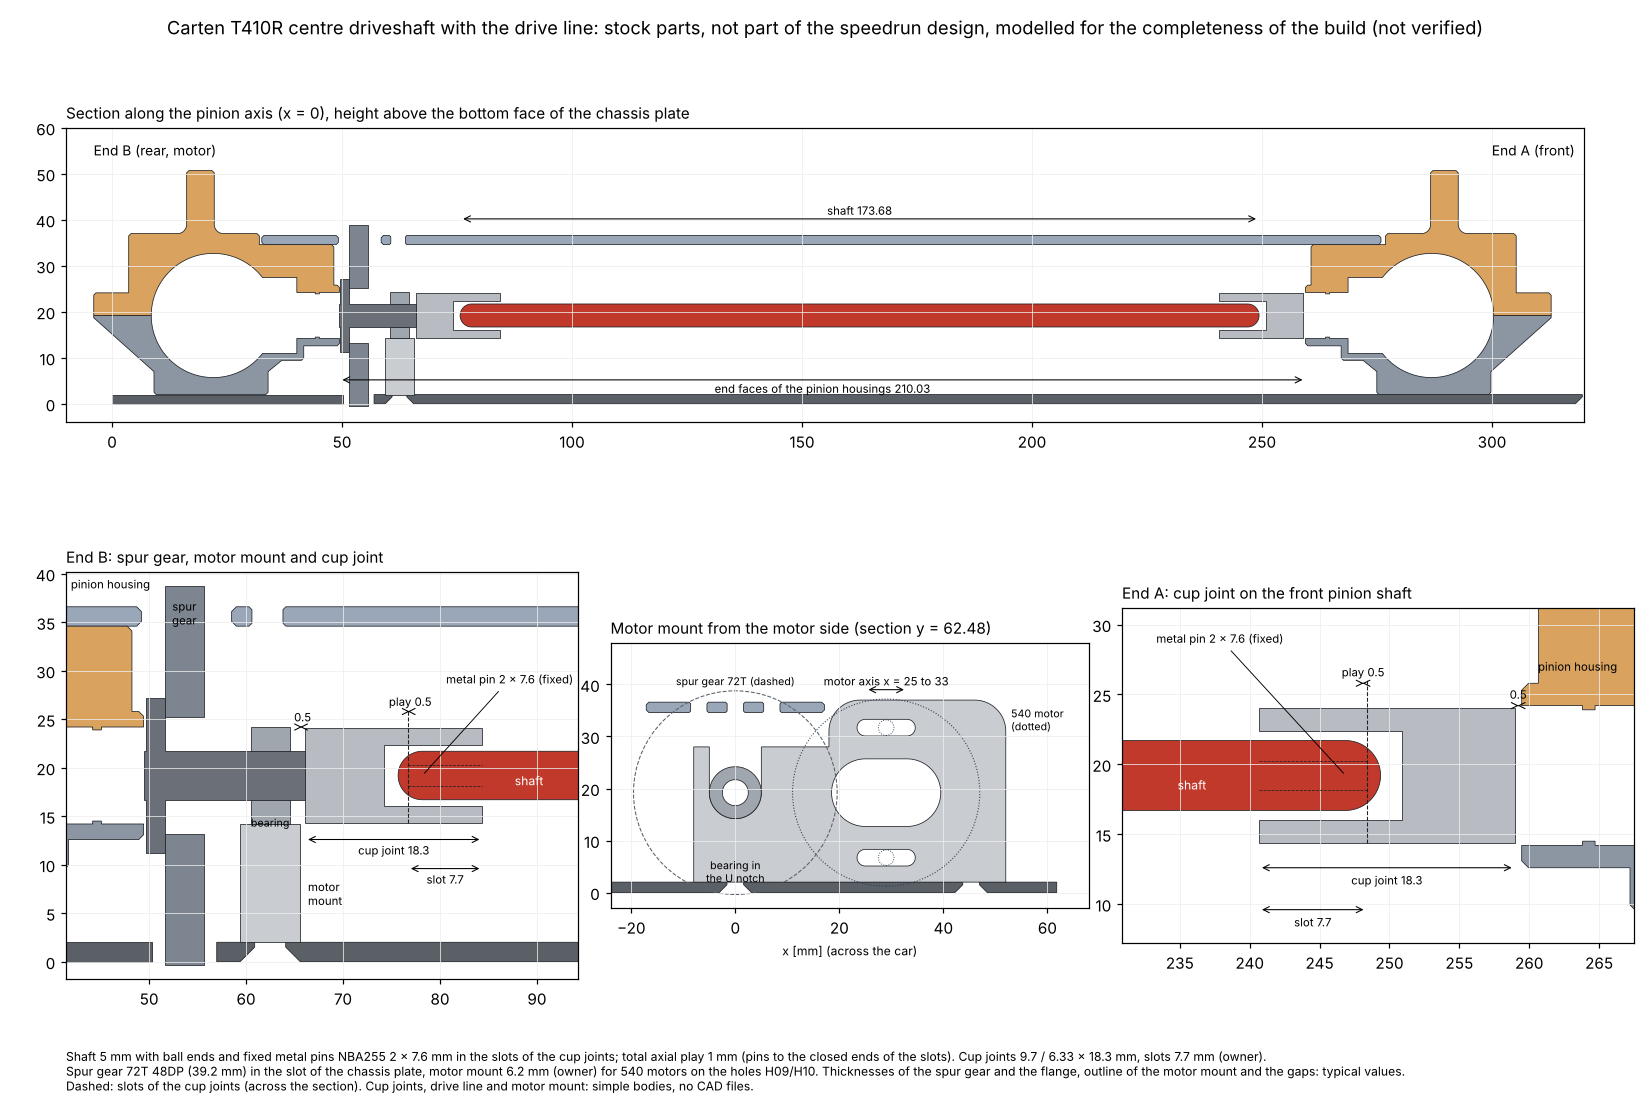
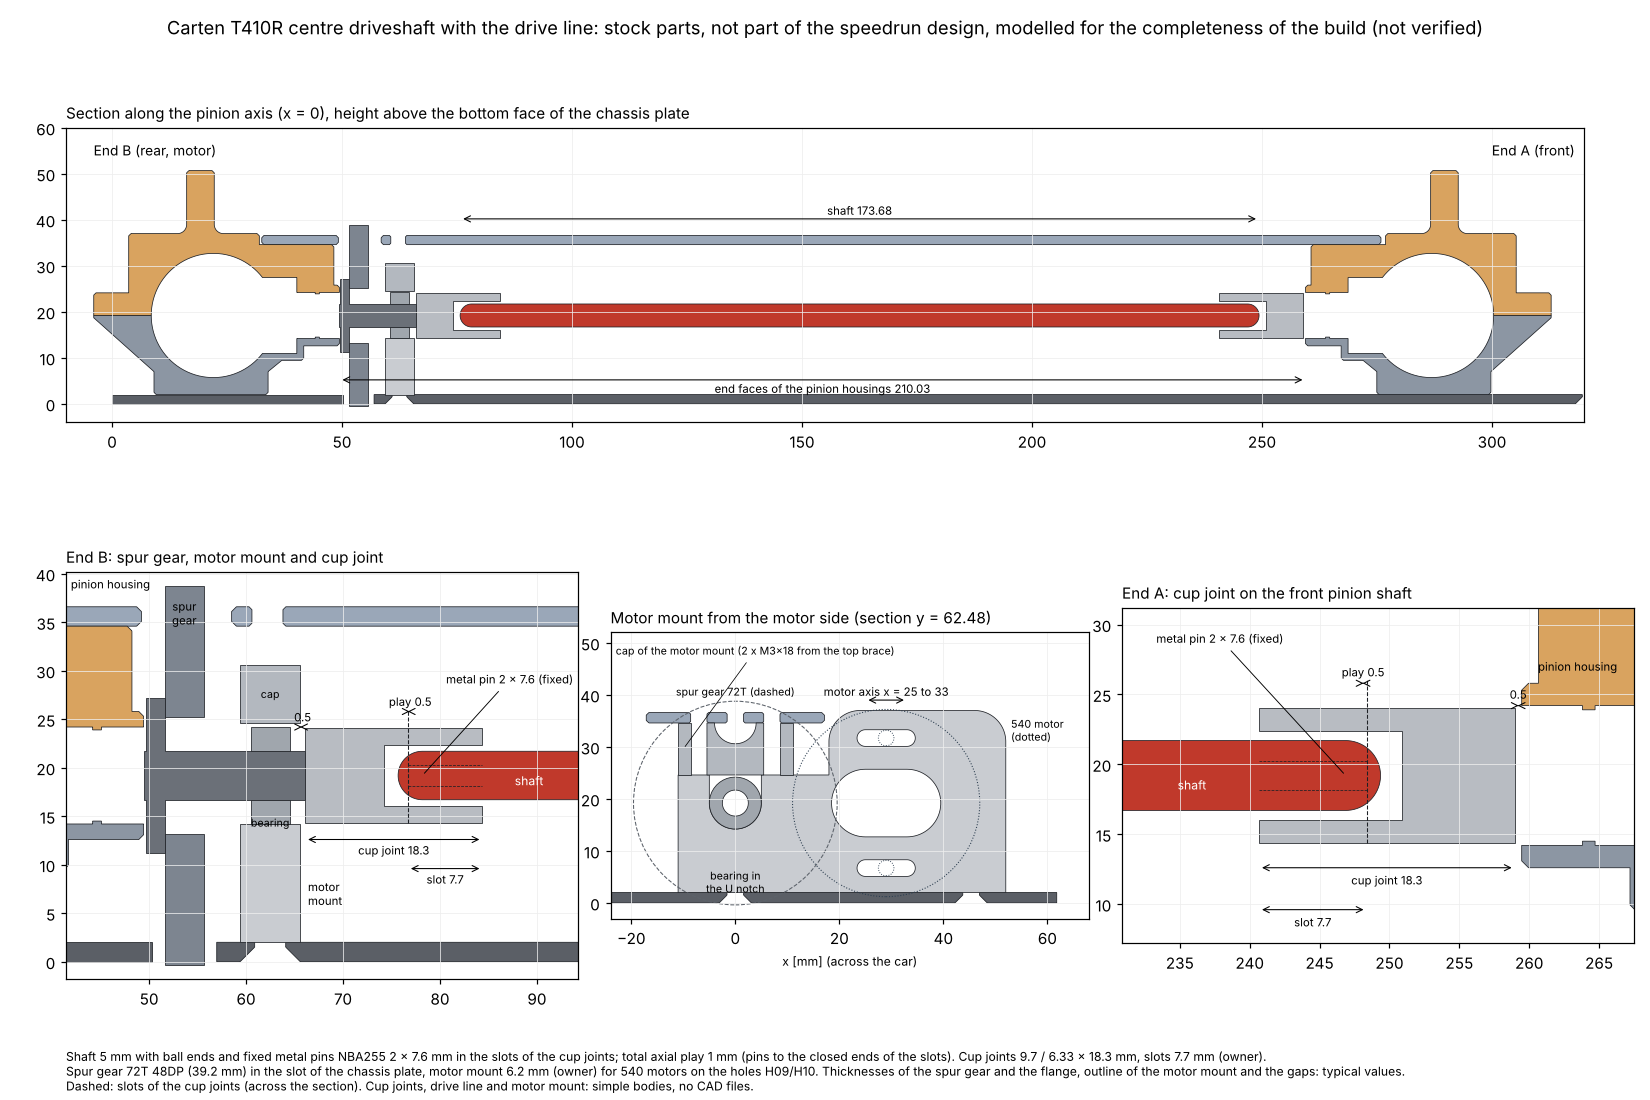
feat: add the cap of the motor mount between the motor mount and the top brace
- Second part of NBA201 (manual step 25 and parts list): block on the low
  part of the motor mount, from 24.6 mm up to the top brace (34.6 mm), above
  the bearing NBA298, with a semicircular notch in its top face and 2 through
  holes below the holes B10/B11 of the top brace (x = +-7.02 mm). 2 screws
  M3x18 from the top brace through the cap into the motor mount fix the
  motor mount to the top brace.
- Height 10 mm derived from the screws M3x18; the low part of the motor
  mount now ends at 24.6 mm and reaches to x = -11 mm.
- Picture only, no CAD file. Checks: no overlap; the cap touches the top
  brace. Drawing (motor mount view), assembly legend and readmes updated.

Claude-Session: https://claude.ai/code/session_012MJxxEEjoVgHx6jU6rcxWi

diff --git a/scripts/cad/generate_driveshaft.py b/scripts/cad/generate_driveshaft.py
@@ -36,7 +36,7 @@ import numpy as np
 import cadquery as cq
 
 sys.path.insert(0, os.path.dirname(os.path.abspath(__file__)))
-from generate_bulkhead_lower import box, bulkhead_lower, cyl_x, cyl_y, load_params  # noqa: E402
+from generate_bulkhead_lower import box, bulkhead_lower, cyl_x, cyl_y, cyl_z, load_params  # noqa: E402
 from generate_bulkhead_upper import bulkhead_upper  # noqa: E402
 from generate_top_brace_speedrun import BULKHEAD_Y, GEOM as BRACE_GEOM, brace_offset, brace_solid  # noqa: E402
 
@@ -118,8 +118,10 @@ def rear_drive_line(p, lay):
     yb = p["mount_y"] - b / 2
     bearing = cyl_y(dd / 2, yb, yb + b, 0, z).cut(cyl_y(d / 2, yb - 1, yb + b + 1, 0, z))
     mount = motor_mount_solid(p, lay)
+    cap = motor_mount_cap_solid(p, lay)
     return [("rear pinion shaft with flange", "drive", shaft.clean()), ("spur gear", "drive", spur.clean()),
-            ("bearing NBA298 in the motor mount", "drive", bearing.clean()), ("motor mount", "mount", mount.clean())]
+            ("bearing NBA298 in the motor mount", "drive", bearing.clean()), ("motor mount", "mount", mount.clean()),
+            ("cap of the motor mount", "mount", cap)]
 
 
 def motor_mount_solid(p, lay):
@@ -143,6 +145,20 @@ def motor_mount_solid(p, lay):
     hs = p["motor_screw_spacing"] / 2
     for zc, w in ((z, p["motor_shaft_slot_w"]), (z + hs, p["motor_screw_slot_w"]), (z - hs, p["motor_screw_slot_w"])):
         s = s.cut(long_hole(zc, w))
+    return s.clean()
+
+
+def motor_mount_cap_solid(p, lay):
+    """Cap of the motor mount (second part of NBA201, manual step 25), chassis plate coordinates,
+    picture only: block between the low part of the motor mount and the top brace, with a
+    semicircular notch along y in its top face and two through holes for the screws M3x18 from the
+    top brace into the motor mount."""
+    m0, m1 = lay["mount"]
+    z0 = p["mount_low_top"]
+    z1, w = z0 + p["cap_h"], p["cap_w"] / 2
+    s = box(-w, w, m0, m1, z0, z1).cut(cyl_y(p["cap_notch_r"], m0 - 1, m1 + 1, 0, z1))
+    for x, y in p["cap_screws"]:
+        s = s.cut(cyl_z(p["cap_hole_d"] / 2, z0 - 1, z1 + 1, x, y))
     return s.clean()
 
 
@@ -273,6 +289,8 @@ def drawing(path, p, lay, items):
         if sign > 0:
             m0, m1 = lay["mount"]
             ax2.text(m1 + 0.8, 7.0, "motor\nmount", ha="left", va="center", fontsize=7.5)
+            ax2.text(p["mount_y"], p["mount_low_top"] + (p["cap_h"] - p["cap_notch_r"]) / 2, "cap", ha="center",
+                     va="center", fontsize=7)
             ax2.text(sum(lay["spur"]) / 2, z + lay["spur_od"] / 2 - 4, "spur\ngear", ha="center", fontsize=7.5)
             ax2.text(p["mount_y"], z - 4.2, "bearing", ha="center", va="top", fontsize=7)
             dim(ax2, m1, bk, z + 5.0, f"{p['rear_cup_gap']:g}")
@@ -303,8 +321,10 @@ def drawing(path, p, lay, items):
     ax3.text(0, z + lay["spur_od"] / 2 + 0.6, f"spur gear {p['spur_teeth']:g}T (dashed)", ha="center", va="bottom",
              fontsize=7)
     ax3.text(0, 4.0, "bearing in\nthe U notch", ha="center", va="center", fontsize=7)
+    ax3.annotate("cap of the motor mount (2 x M3x18 from the top brace)", (-p["cap_w"] / 2 + 1, p["mount_low_top"] + 5),
+                 (-23, 48.5), fontsize=7, ha="left", va="center", arrowprops=dict(arrowstyle="-", lw=0.5))
     ax3.set_xlim(-24, 68)
-    ax3.set_ylim(-3, 48)
+    ax3.set_ylim(-3, 52)
     ax3.set_aspect("equal")
     ax3.grid(True, color="#eeeeee", lw=0.5)
     ax3.set_title("Motor mount from the motor side (section y = 62.48)", fontsize=10, loc="left")
@@ -350,7 +370,8 @@ def main():
         cq.Vector(0, c, PLATE_T + lp["axis_z"] + up["deck_h"]))
     items = [(plate, "#5b5f66"), (brace, "#9aa7b8")]
     items += [(b, "#8c96a3" if k % 2 == 0 else "#d9a35f") for k, b in enumerate(bulkheads)]
-    items += [(parts["motor mount"], "#c9ccd1"), (parts["rear pinion shaft with flange"], "#6b7078"),
+    items += [(parts["motor mount"], "#c9ccd1"), (parts["cap of the motor mount"], "#b3b8bf"),
+              (parts["rear pinion shaft with flange"], "#6b7078"),
               (parts["spur gear"], "#7d8590"), (parts["bearing NBA298 in the motor mount"], "#a0a6ad"),
               (parts["cup joint End B"], "#b8bcc2"), (parts["cup joint End A"], "#b8bcc2"),
               (parts["centre driveshaft"], "#c0392b")]

diff --git a/scripts/cad/generate_speedrun_assembly.py b/scripts/cad/generate_speedrun_assembly.py
@@ -13,7 +13,7 @@ Parts:
 * stock centre driveshaft with the fixed metal pins (not part of the speedrun design, modelled for
   the completeness of the build, not in the mass total)
 * picture only (simple bodies, not in the STEP file): cup joints, rear pinion shaft with the spur
-  gear and the bearing, motor mount, diff outdrives
+  gear and the bearing, motor mount with its cap, diff outdrives
 
 Outputs:
 * cad/assembly/speedrun_chassis_T410R.step: assembly (STEP AP214, one solid per part)
@@ -66,7 +66,7 @@ MATERIALS = {"plate": ("Speedrun chassis plate (wide, longer motor window)", {"6
              "shaft": ("Stock centre driveshaft with fixed pins (not part of the speedrun design)", {}),
              "cup": ("Cup joints and diff outdrives (picture only)", {}),
              "drive": ("Rear pinion shaft with spur gear and bearing (picture only)", {}),
-             "mount": ("Motor mount (picture only)", {})}
+             "mount": ("Motor mount with cap (picture only)", {})}
 
 
 def build():

diff --git a/cad/readme.md b/cad/readme.md
@@ -110,7 +110,7 @@ Stock parts of the Carten T410R, modelled for the completeness of the build (not
 
 ### Assembly file
 * `assembly/speedrun_chassis_T410R.step`: assembly of the 8 parts of the speedrun chassis and the 5 stock parts (4 pivot blocks, centre driveshaft) in the coordinate system of the chassis plate (STEP AP214, one solid per part).
-* The assembly also contains the 4 stock pivot blocks of the wishbones (see [pivot blocks](#pivot-blocks-stock-parts-not-part-of-the-speedrun-design)) and the stock centre driveshaft (see [centre driveshaft](#centre-driveshaft-stock-parts-not-part-of-the-speedrun-design)). These parts are not part of the speedrun design, are modelled for the completeness of the build and are not in the mass total. The picture also shows the cup joints, the rear pinion shaft with the spur gear and the bearing, the motor mount and the diff outdrives as simple bodies; they are not in the STEP file.
+* The assembly also contains the 4 stock pivot blocks of the wishbones (see [pivot blocks](#pivot-blocks-stock-parts-not-part-of-the-speedrun-design)) and the stock centre driveshaft (see [centre driveshaft](#centre-driveshaft-stock-parts-not-part-of-the-speedrun-design)). These parts are not part of the speedrun design, are modelled for the completeness of the build and are not in the mass total. The picture also shows the cup joints, the rear pinion shaft with the spur gear and the bearing, the motor mount with its cap and the diff outdrives as simple bodies; they are not in the STEP file.
 * The interference check of all pairs of parts gives 0 mm³, except 0.82 mm³ between the lower bulkhead at End B and the long pivot block (see [position and fit on the speedrun chassis](#position-and-fit-on-the-speedrun-chassis)).
 * The assembly file and the image are generated with the script `generate_speedrun_assembly.py` (see [scripts](#scripts)) from the files of the parts.
 * The image shows an overall view, a side view, a top view and close-ups of both ends: bulkheads, shock tower and end of the top brace, seen from the outer end.
@@ -691,8 +691,8 @@ All files are stored in the directory `/stock_parts/pivot_block`. They are gener
 
 ## Centre driveshaft (stock parts, not part of the speedrun design)
 * **Author:** [@kleinnconrad](https://github.com/kleinnconrad)
-* **Description:** Model of the centre driveshaft of the Carten T410R (NHA413) between the cup joints of the two pinion shafts. The shaft has a ball end at each end with a metal pin (NBA255, 2.0 x 7.6 mm), which is fixed on the shaft. The pins run in the slots of the cup joints, so the shaft turns with the cup joints. In the centred position, each pin has 0.5 mm to the closed end of its slot, so the shaft can move a little back and forth. At End A, the cup joint sits on the front pinion shaft beside the bulkhead. At End B (motor), the rear pinion shaft NBA205 runs from the pinion in the bulkhead through a flange with the spur gear and the bearing NBA298 in the motor mount NBA201 (manual steps 5, 10 and 12); the cup joint sits on its end beyond the motor mount. The shaft is a stock part: it is not part of the speedrun design and is not manufactured in this project. It is modelled for the completeness of the build. The cup joints, the rear pinion shaft with the spur gear and the bearing, the motor mount and the diff outdrives are shown as simple bodies in the assembly picture only; they are not modelled as CAD files.
-* **Status:** Not verified. Not part of the speedrun design (stock part). The cup joints, the thickness of the motor mount and the spur gear (72T 48DP) are given by the owner, the positions of the motor mount and the spur gear are derived from the chassis plate, the outline of the motor mount follows the manual (step 10). The thicknesses of the spur gear and the flange and the gaps are typical values (see [open points of the centre driveshaft](#open-points-of-the-centre-driveshaft)).
+* **Description:** Model of the centre driveshaft of the Carten T410R (NHA413) between the cup joints of the two pinion shafts. The shaft has a ball end at each end with a metal pin (NBA255, 2.0 x 7.6 mm), which is fixed on the shaft. The pins run in the slots of the cup joints, so the shaft turns with the cup joints. In the centred position, each pin has 0.5 mm to the closed end of its slot, so the shaft can move a little back and forth. At End A, the cup joint sits on the front pinion shaft beside the bulkhead. At End B (motor), the rear pinion shaft NBA205 runs from the pinion in the bulkhead through a flange with the spur gear and the bearing NBA298 in the motor mount NBA201 (manual steps 5, 10 and 12); the cup joint sits on its end beyond the motor mount. The shaft is a stock part: it is not part of the speedrun design and is not manufactured in this project. It is modelled for the completeness of the build. The cup joints, the rear pinion shaft with the spur gear and the bearing, the motor mount with its cap and the diff outdrives are shown as simple bodies in the assembly picture only; they are not modelled as CAD files.
+* **Status:** Not verified. Not part of the speedrun design (stock part). The cup joints, the thickness of the motor mount and the spur gear (72T 48DP) are given by the owner, the positions of the motor mount and the spur gear are derived from the chassis plate, the outline of the motor mount and its cap follow the manual (steps 10 and 25). The thicknesses of the spur gear and the flange and the gaps are typical values (see [open points of the centre driveshaft](#open-points-of-the-centre-driveshaft)).
 
 ![Centre driveshaft with the drive line and the motor mount](../photos/cad_driveshaft_drawing.png)
 
@@ -706,7 +706,8 @@ Positions y along the car on the chassis plate (End B at y = 0).
 | Cup joints NBA255 (picture only) | 9.7 mm outer and 6.33 mm inner diameter, 18.3 mm long, 2 slots 7.7 mm long from the open end (2.1 mm wide); bore 10.2 mm deep | Owner (bore depth: slot + 2.5 mm, estimate) |
 | Cup joint End A | From y = 258.96 to 240.66 mm (0.5 mm from the end face of the pinion housing) | Typical value (gap) |
 | Spur gear (picture only) | Standard 72T 48DP, 39.16 mm outer diameter, 4.0 mm thick, y = 51.63 to 55.63 mm, in the slot of the chassis plate below the pinion axis (y = 50.28 to 56.97 mm); it reaches 0.38 mm below the bottom face of the chassis plate. Flange of the rear pinion shaft 16 x 2 mm on the bulkhead side | Owner (72T 48DP), chassis plate (position), typical values (thicknesses) |
-| Motor mount NBA201 for 540 motors (picture only) | Plate 6.2 mm thick, y = 59.38 to 65.58 mm, on the holes H09 and H10 (y = 62.48 mm); the motor window starts at y = 65.63 mm. Low part (x = -8 to 18 mm, 28 mm high) with a U-shaped notch, open to the top, for the bearing NBA298 5 x 10 x 4 mm at the pinion axis. Tall part (x = 18 to 52 mm, 37 mm high, top corners R6) beside the end of the top brace, with three long holes along x: motor shaft (13 mm wide, at the height of the pinion axis), motor screws M3 (3.2 mm wide, 12.5 mm above and below; 540 motors: screws 25 mm apart). Motor axis x = 25 to 33 mm: centre distance 27.0 to 31.0 mm for the 72T 48DP spur gear and motor pinions of 30 to 45 teeth, plus 2 mm | Owner (thickness, 540 motors), chassis plate (position), manual step 10 (shape), derived (long holes), typical values (outline) |
+| Motor mount NBA201 for 540 motors (picture only) | Plate 6.2 mm thick, y = 59.38 to 65.58 mm, on the holes H09 and H10 (y = 62.48 mm); the motor window starts at y = 65.63 mm. Low part (x = -11 to 18 mm, 24.6 mm high) with a U-shaped notch, open to the top, for the bearing NBA298 5 x 10 x 4 mm at the pinion axis. Tall part (x = 18 to 52 mm, 37 mm high, top corners R6) beside the end of the top brace, with three long holes along x: motor shaft (13 mm wide, at the height of the pinion axis), motor screws M3 (3.2 mm wide, 12.5 mm above and below; 540 motors: screws 25 mm apart). Motor axis x = 25 to 33 mm: centre distance 27.0 to 31.0 mm for the 72T 48DP spur gear and motor pinions of 30 to 45 teeth, plus 2 mm | Owner (thickness, 540 motors), chassis plate (position), manual step 10 (shape), derived (long holes), typical values (outline) |
+| Cap of the motor mount (second part of NBA201, picture only) | Block 22 x 6.2 x 10 mm on the low part of the motor mount, from 24.6 mm up to the top brace (34.6 mm), above the bearing; semicircular notch R4 along y in its top face below the hole B09 of the top brace; 2 through holes 3.2 mm below the holes B10 and B11 of the top brace (x = +-7.02 mm, y = 62.15 mm). 2 screws M3x18 from the top brace through the cap into the motor mount fix the motor mount to the top brace; set screw M3x3 in the cap (manual step 25) | Manual (steps 25, parts list), top brace (holes), derived (height from the screws M3x18: 18 - 2.0 brace - approx. 6 thread), typical values (width, notch) |
 | Cup joint End B | From y = 66.08 to 84.38 mm (0.5 mm beyond the motor mount, on the end of the rear pinion shaft) | Typical value (gap) |
 | Shaft | 5.0 mm, ball ends with a radius of 2.5 mm (radial clearance 0.665 mm in the cup joints) | Typical value |
 | Metal pins | 2.0 x 7.6 mm (NBA255), fixed on the shaft at the centres of the ball ends, part of the model of the shaft | Manual (step 5) |
@@ -722,12 +723,12 @@ Results of `generate_driveshaft.py`:
 |:---|:---|
 | Shaft in the cup joints | 0 mm³ overlap; pins 0.05 mm per side in the slots, pin ends 1.05 mm inside the cup joints |
 | Ends of the shaft | 1.50 mm to the bottoms of the bores (space for the O-rings) |
-| Shaft, cup joints, rear drive line, motor mount and diff outdrives with the bulkheads, the chassis plate and the top brace | 0 mm³ overlap; the spur gear runs through the slot of the chassis plate and below the obround of the top brace, the tall part of the motor mount lies 0.76 mm beside the end of the top brace |
+| Shaft, cup joints, rear drive line, motor mount and diff outdrives with the bulkheads, the chassis plate and the top brace | 0 mm³ overlap; the spur gear runs through the slot of the chassis plate and below the obround of the top brace, the tall part of the motor mount lies 0.76 mm beside the end of the top brace, the cap of the motor mount touches the top brace |
 
 * Not modelled: the motor, the front pinion shaft between the bearing and the cup joint, the O-rings NBA255 5.8 x 9.6 x 1.9 mm (see `specs/mechanics/carten_t410r/drivetrain/spec_driveshaft_and_joints.yaml`).
 
 ### Open points of the centre driveshaft
-* Not measured: thicknesses of the spur gear (4.0 mm) and the flange (2.0 mm), the gaps between the motor mount or the pinion housing and the cup joints (0.5 mm), depth of the bore of the cup joints, outline of the motor mount (heights, step, long holes). The length of the shaft follows from these values (173.68 mm); it is to be checked against the real NHA413.
+* Not measured: thicknesses of the spur gear (4.0 mm) and the flange (2.0 mm), the gaps between the motor mount or the pinion housing and the cup joints (0.5 mm), depth of the bore of the cup joints, outline of the motor mount (heights, step, long holes) and of its cap (width, notch). The length of the shaft follows from these values (173.68 mm); it is to be checked against the real NHA413.
 * Spur gear: the specifications (`spec_spur_gear.yaml`, `spec_gearing.yaml`) and the setup sheet list a 68T spur gear; the model uses the standard 72T 48DP spur gear of the owner.
 
 ### Files of the centre driveshaft

diff --git a/readme.md b/readme.md
@@ -51,7 +51,7 @@ The speedrun chassis is designed in this project for speeds over 100 km/h. It co
 * Laser cutting: the top brace (2 mm) and the shock towers (3 mm) are flat plates with plain holes, so that they can be laser cut from aluminium or another material of choice (for example carbon). The outline and the holes are taken from the DXF files. The edge and hole chamfers and the relief on the back face of the shock towers (clearance to the root radius of the wall of the upper bulkhead) are a second machining step.
 * Simple design: a further goal is a simplified design of the bulkheads, the shock towers and the top brace with flat faces, straight edges and radii.
 * Chassis plate: apart from the material, the speedrun chassis plate is designed to match the ZooRacing Hellcat body (190 mm). It also gives more space for further developments: a battery with 4S or 6S instead of 3S, a dual motor setup and the custom [telemetry system](#follow-up-project-telemetry-system).
-* Stock parts: the other parts of the car are not modelled. For these parts, the stock parts of the manufacturer are used, since this is the technically and economically reasonable solution. Only the stock pivot blocks of the wishbones and the stock centre driveshaft are modelled (`cad/stock_parts`). The cup joints, the rear pinion shaft with the spur gear, the motor mount and the diff outdrives are shown in the assembly picture only. They are not part of the speedrun design and are modelled for the completeness of the build.
+* Stock parts: the other parts of the car are not modelled. For these parts, the stock parts of the manufacturer are used, since this is the technically and economically reasonable solution. Only the stock pivot blocks of the wishbones and the stock centre driveshaft are modelled (`cad/stock_parts`). The cup joints, the rear pinion shaft with the spur gear, the motor mount with its cap and the diff outdrives are shown in the assembly picture only. They are not part of the speedrun design and are modelled for the completeness of the build.
 
 ![Speedrun chassis: chassis plate, bulkheads, top brace and shock towers](photos/cad_speedrun_chassis_assembly.png)
 

diff --git a/cad/stock_parts/readme.md b/cad/stock_parts/readme.md
@@ -2,4 +2,4 @@
 The files in this directory are models of stock parts of the Carten T410R. They are not part of the speedrun design and are not manufactured in this project. They are modelled for the completeness of the build: the assembly of the speedrun chassis contains them, so that the space around the speedrun parts can be checked.
 
 * **`/pivot_block`**: Pivot blocks of the wishbones, long block (1 piece) and short block (3 pieces), STEP, STL and parameter file. Status: not verified. Description and checks: see the [CAD readme](../readme.md#pivot-blocks-stock-parts-not-part-of-the-speedrun-design).
-* **`/driveshaft`**: Centre driveshaft between the pinions of the two bulkheads, with the fixed metal pins of the cup joints, STEP, STL and parameter file. The cup joints, the rear pinion shaft with the spur gear, the motor mount and the diff outdrives are shown in the assembly picture only. Status: not verified. Description and checks: see the [CAD readme](../readme.md#centre-driveshaft-stock-parts-not-part-of-the-speedrun-design).
+* **`/driveshaft`**: Centre driveshaft between the pinions of the two bulkheads, with the fixed metal pins of the cup joints, STEP, STL and parameter file. The cup joints, the rear pinion shaft with the spur gear, the motor mount with its cap and the diff outdrives are shown in the assembly picture only. Status: not verified. Description and checks: see the [CAD readme](../readme.md#centre-driveshaft-stock-parts-not-part-of-the-speedrun-design).
